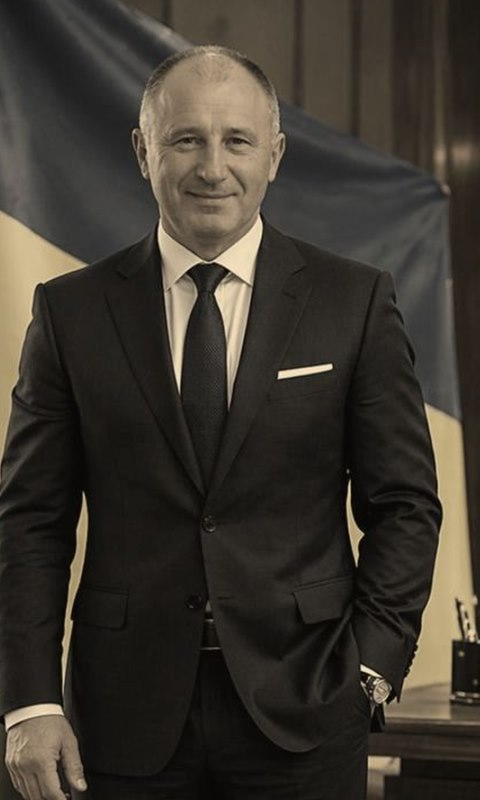
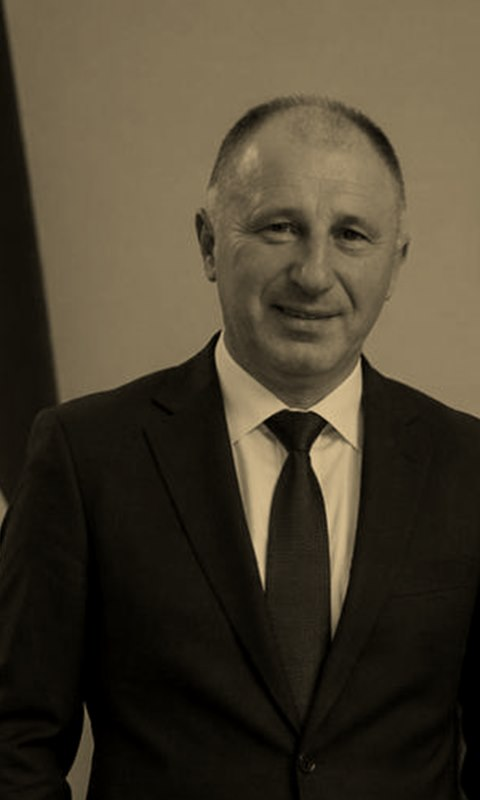
About photo: swap in the client's latest upload, graded to match the hero
Client wanted a different photo in the About section than the hero, but in the same visual style. Cropped the newly added photo, then color-graded it (sepia matrix + darkening, calibrated by sampling the hero image's tone) since it's a different source shot with no pre-existing grade to reuse.

diff --git a/index.html b/index.html
@@ -219,7 +219,7 @@
           <p data-i18n="about.p2">Що це дає вам: я бачу справу так, як її побачить суд. Де доказ слабкий. Який строк от-от мине. Який аргумент справді важить, а який лише займає сторінку.</p>
         </div>
         <figure class="about__photo" data-reveal="img">
-          <img class="about__photo-fg" src="assets/img/portrait-about-fullbody.jpg?v=3" width="480" height="800" loading="lazy" decoding="async" alt="Юрій Потятинник, портрет" data-i18n-attr="alt:about.alt">
+          <img class="about__photo-fg" src="assets/img/portrait-about-fullbody.jpg?v=4" width="480" height="800" loading="lazy" decoding="async" alt="Юрій Потятинник, портрет" data-i18n-attr="alt:about.alt">
           <figcaption data-i18n="about.caption">Юрій Потятинник · адвокат</figcaption>
         </figure>
         <ul class="about__values">
